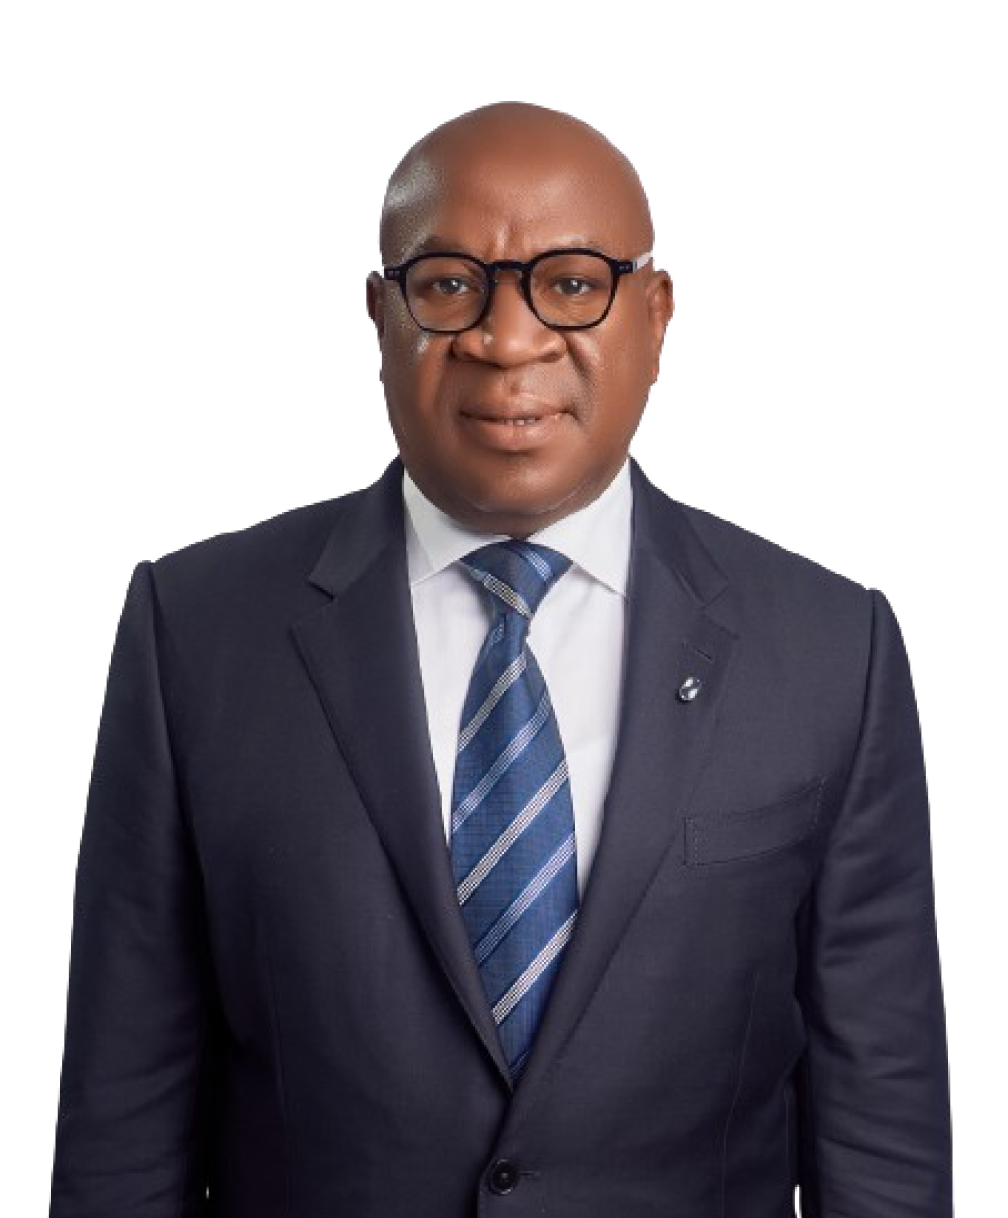
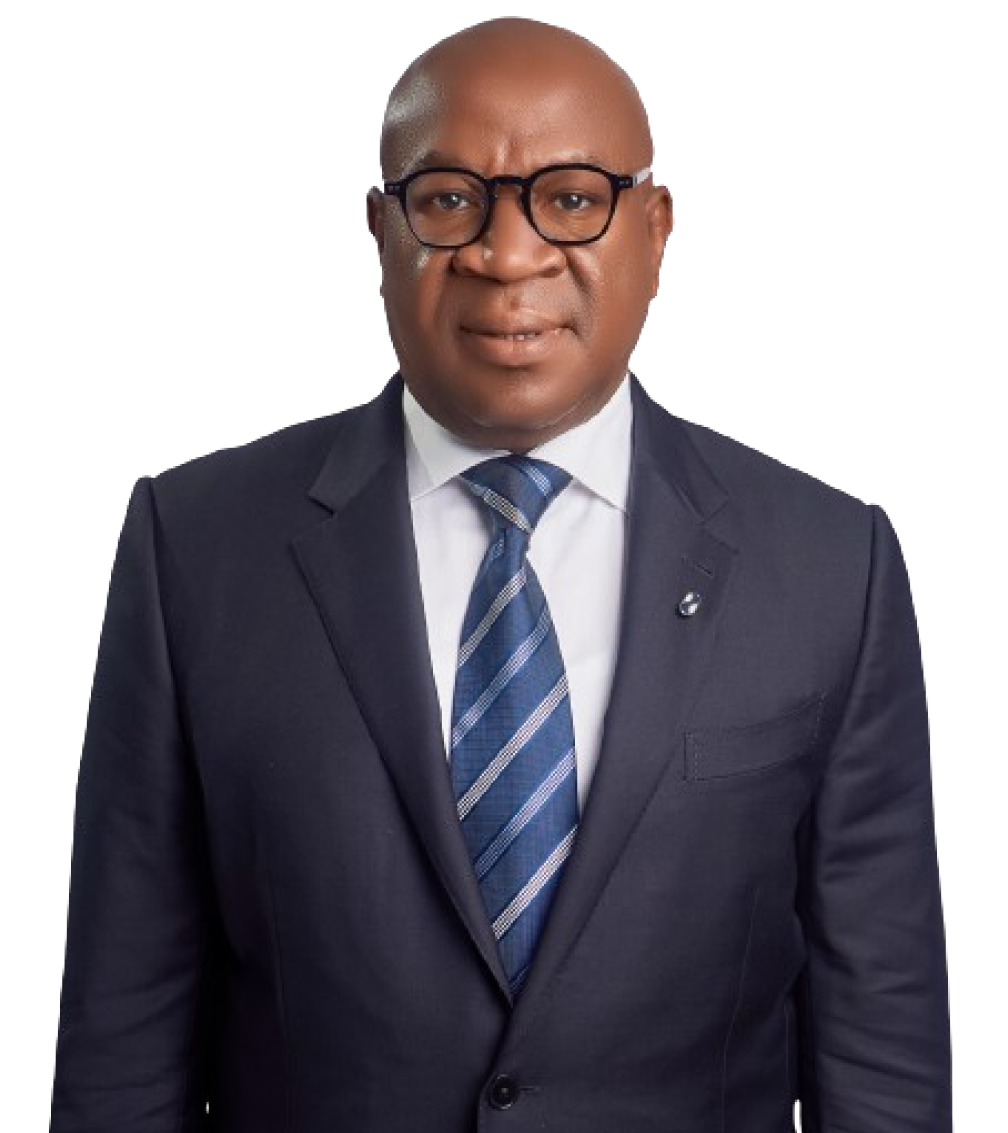
updated

diff --git a/src/components/modals/LeadershipModal.tsx b/src/components/modals/LeadershipModal.tsx
@@ -19,8 +19,8 @@ export function LeadershipModal({ handleOpen, open, leaderBio, img }) {
           <IoCloseCircleOutline size={40} color="black" />
         </span>
         <DialogBody className="flex flex-col xl:gap-5 gap-3 text-black">
-          <div className="flex xl:items-start items-center justify-center xl:flex-row flex-col gap-20">
-            <img src={img} alt={img} className="xl:w-[20%] w-[50%] " />
+          <div className="flex items-end justify-center xl:flex-row flex-col xl:gap-10 gap-5">
+            <img src={img} alt={img} className="xl:w-[20%] w-[50%] h-full" />
             <div>
             <p className="mt-3">{leaderBio[0] ?? ""}</p>
             <p className="mt-3">{leaderBio[1] ?? ""}</p>

diff --git a/src/pages/Leadership/index.tsx b/src/pages/Leadership/index.tsx
@@ -84,7 +84,7 @@ function Leadership() {
         {LeaderBio.map((leader, index) => (
           <div
             key={index}
-            className="relative about-shadow flex justify-center bg-white"
+            className="relative about-shadow flex justify-center bg-white pt-10"
           >
             <img
               src={leader.image}
